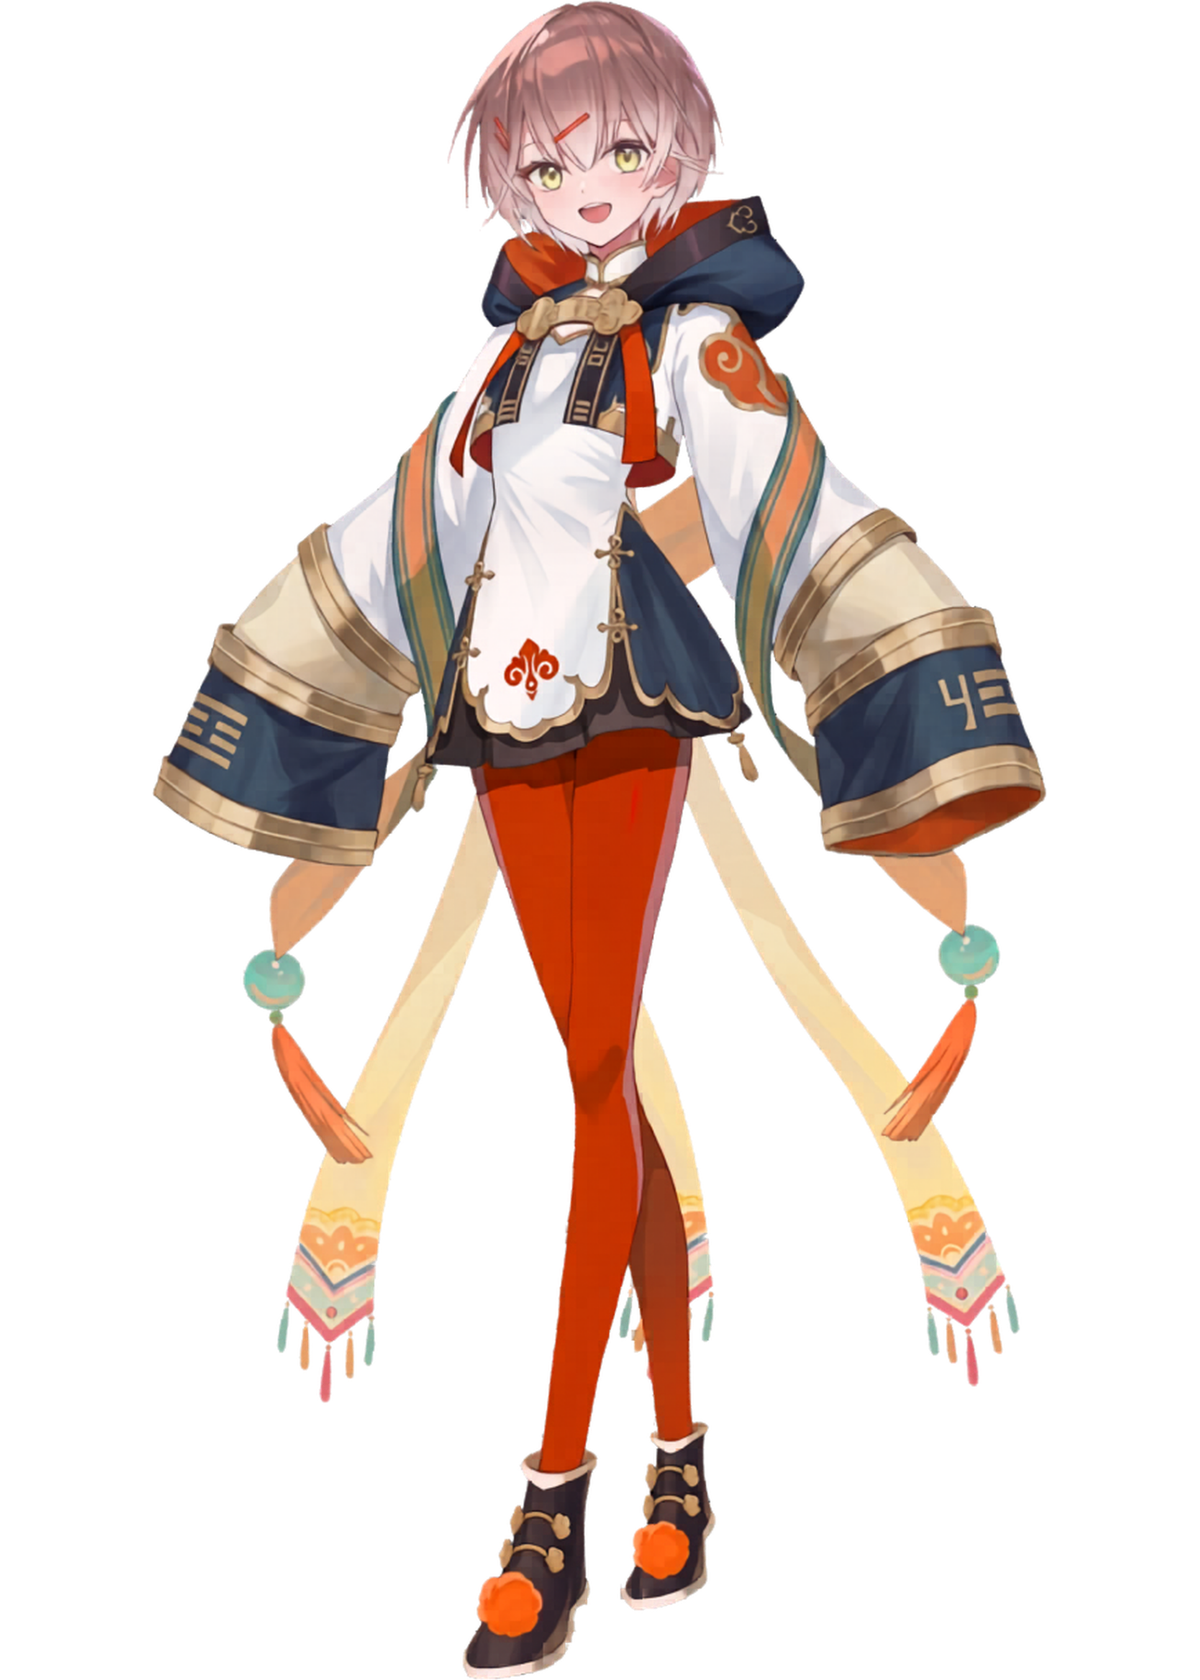
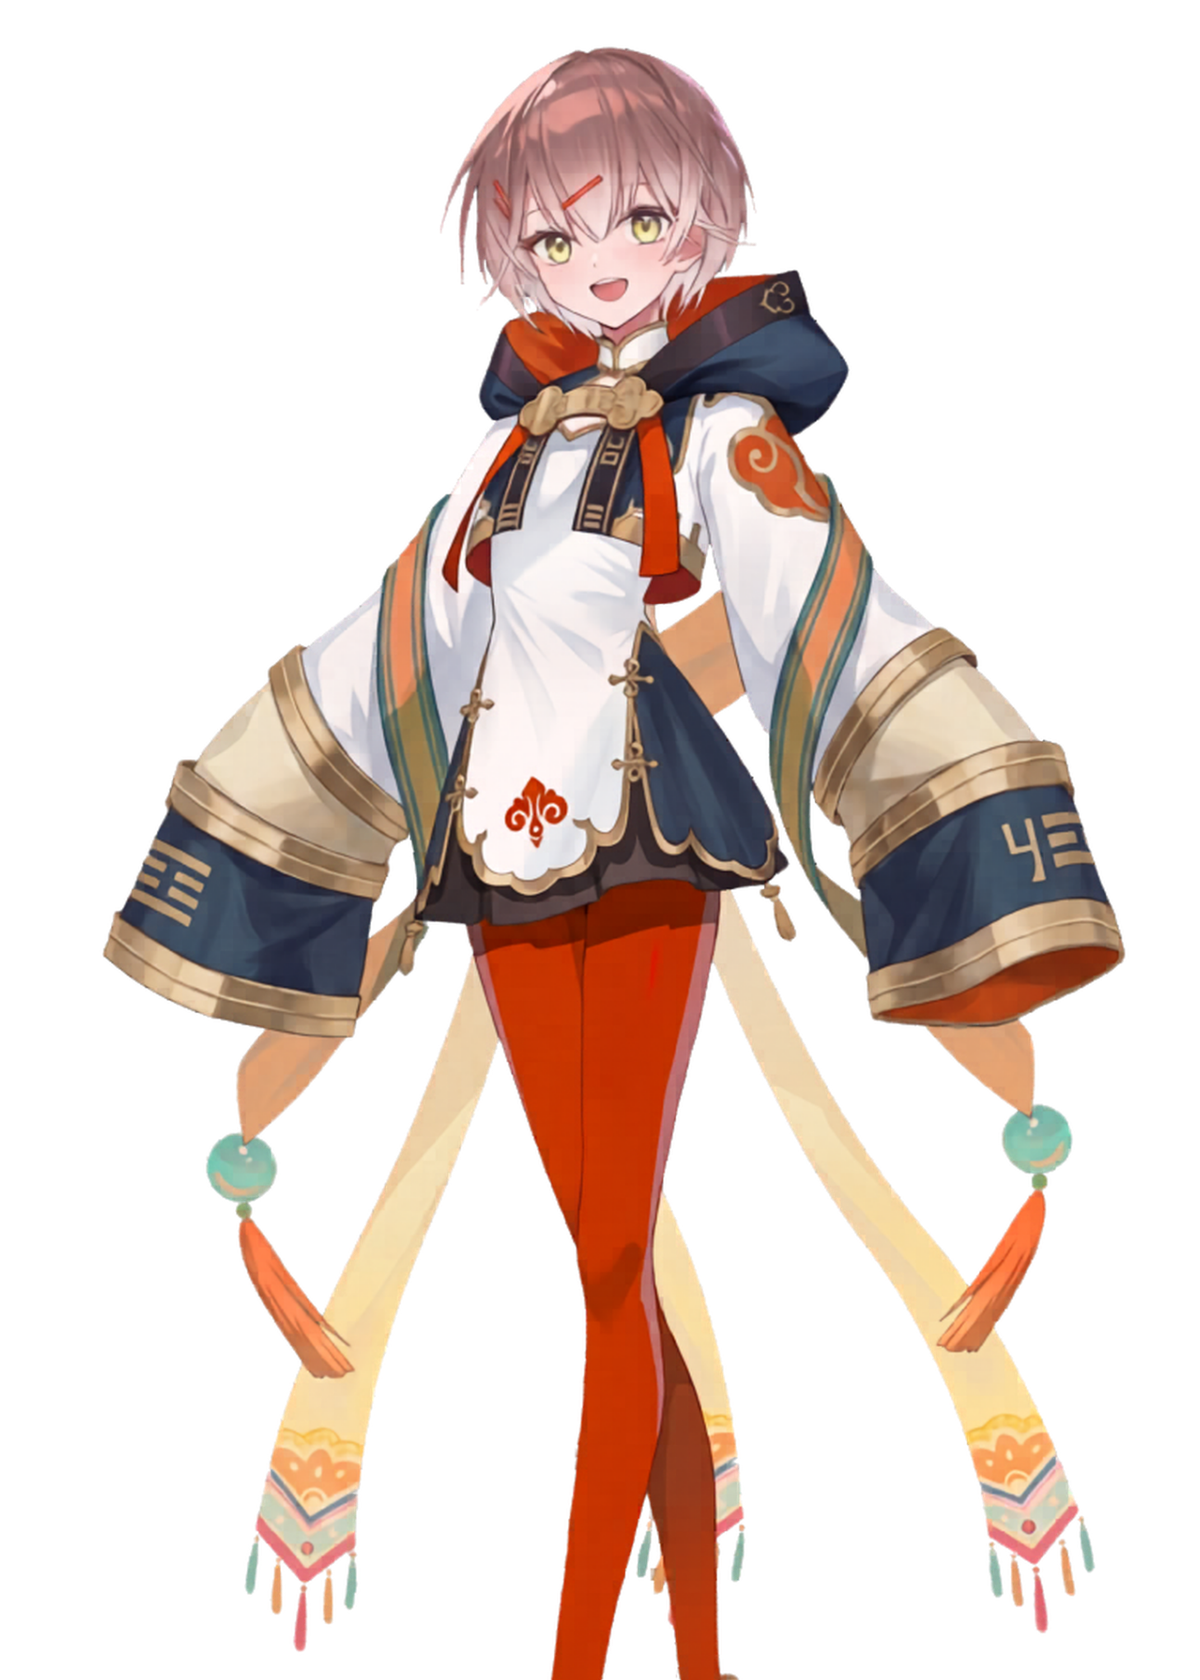
feat(vh): add thinking expression to character carousel, reprocess images for consistent sizing
- Add miyakien-thinking.png to 3-image crossfade rotation
- Reprocess smile/thinking images: crop bottom 15% + resize to 1200x1680
- Remove extra scale transform, rely on matched image dimensions instead

diff --git a/src/components/islands/VirtualHumanShowcase.tsx b/src/components/islands/VirtualHumanShowcase.tsx
@@ -21,6 +21,7 @@ interface Props {
   scenes: Scene[];
   imgSrc: string;
   imgSrcSmile: string;
+  imgSrcThinking: string;
   ui: {
     modeLabel: string;
     mode2d: string;
@@ -47,7 +48,7 @@ interface Props {
  * Per scene change: chat thread resets to scene's preset greeting; perception
  * signals swap; mock reply pool changes too.
  */
-export default function VirtualHumanShowcase({ scenes, imgSrc, imgSrcSmile, ui }: Props) {
+export default function VirtualHumanShowcase({ scenes, imgSrc, imgSrcSmile, imgSrcThinking, ui }: Props) {
   const [mode, setMode] = useState<Mode>('2d');
   const [sceneIdx, setSceneIdx] = useState(0);
   const scene = scenes[sceneIdx];
@@ -154,7 +155,7 @@ export default function VirtualHumanShowcase({ scenes, imgSrc, imgSrcSmile, ui }
         {/* Character + CV overlay */}
         <div className="vh-character-area">
           {mode === '2d' ? (
-            <CharacterStage imgSrc={imgSrc} imgSrcSmile={imgSrcSmile} analysisTexts={ui.analysisTexts} />
+            <CharacterStage imgSrc={imgSrc} imgSrcSmile={imgSrcSmile} imgSrcThinking={imgSrcThinking} analysisTexts={ui.analysisTexts} />
           ) : (
             <Placeholder3D
               title={ui.placeholder3dTitle}
@@ -253,12 +254,14 @@ export default function VirtualHumanShowcase({ scenes, imgSrc, imgSrcSmile, ui }
 /* ============================================================
    CharacterStage — character image + CV overlay
    ============================================================ */
-function CharacterStage({ imgSrc, imgSrcSmile, analysisTexts }: { imgSrc: string; imgSrcSmile: string; analysisTexts: string[] }) {
-  const [showSmile, setShowSmile] = useState(false);
+function CharacterStage({ imgSrc, imgSrcSmile, imgSrcThinking, analysisTexts }: { imgSrc: string; imgSrcSmile: string; imgSrcThinking: string; analysisTexts: string[] }) {
+  const [activeIdx, setActiveIdx] = useState(0);
   const [textIdx, setTextIdx] = useState(0);
 
+  const images = [imgSrc, imgSrcSmile, imgSrcThinking];
+
   useEffect(() => {
-    const id = setInterval(() => setShowSmile((v) => !v), 3500);
+    const id = setInterval(() => setActiveIdx((i) => (i + 1) % images.length), 3500);
     return () => clearInterval(id);
   }, []);
 
@@ -289,24 +292,19 @@ function CharacterStage({ imgSrc, imgSrcSmile, analysisTexts }: { imgSrc: string
         />
       ))}
 
-      {/* Character — two images crossfading */}
-      <img
-        src={imgSrc}
-        alt="MIYAKIEN virtual human"
-        className="vh-character-img"
-        style={{ opacity: showSmile ? 0 : 1, transition: 'opacity 0.6s ease' }}
-      />
-      <img
-        src={imgSrcSmile}
-        alt=""
-        className="vh-character-img"
-        style={{
-          opacity: showSmile ? 1 : 0,
-          transition: 'opacity 0.6s ease',
-          transform: 'translateX(-50%) scale(1.15)',
-          transformOrigin: 'top center',
-        }}
-      />
+      {/* Character — three images crossfading */}
+      {images.map((src, i) => (
+        <img
+          key={src}
+          src={src}
+          alt={i === 0 ? 'MIYAKIEN virtual human' : ''}
+          className="vh-character-img"
+          style={{
+            opacity: activeIdx === i ? 1 : 0,
+            transition: 'opacity 0.6s ease',
+          }}
+        />
+      ))}
 
       {/* Bottom analysis text ticker */}
       <div className="vh-analysis-ticker">
